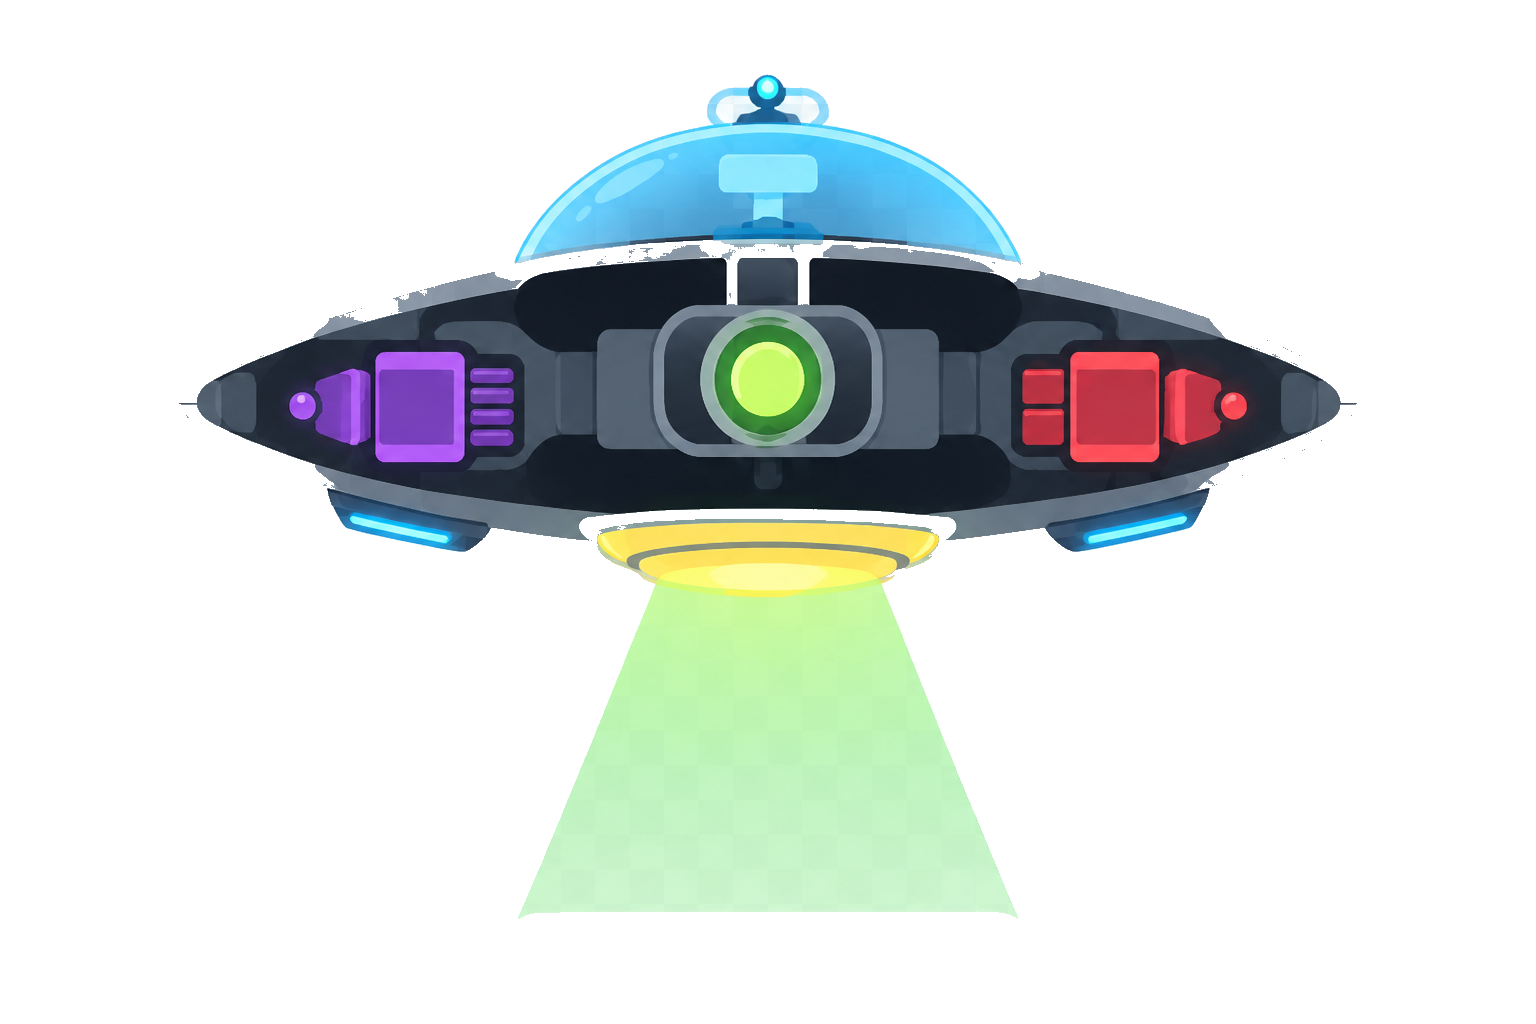
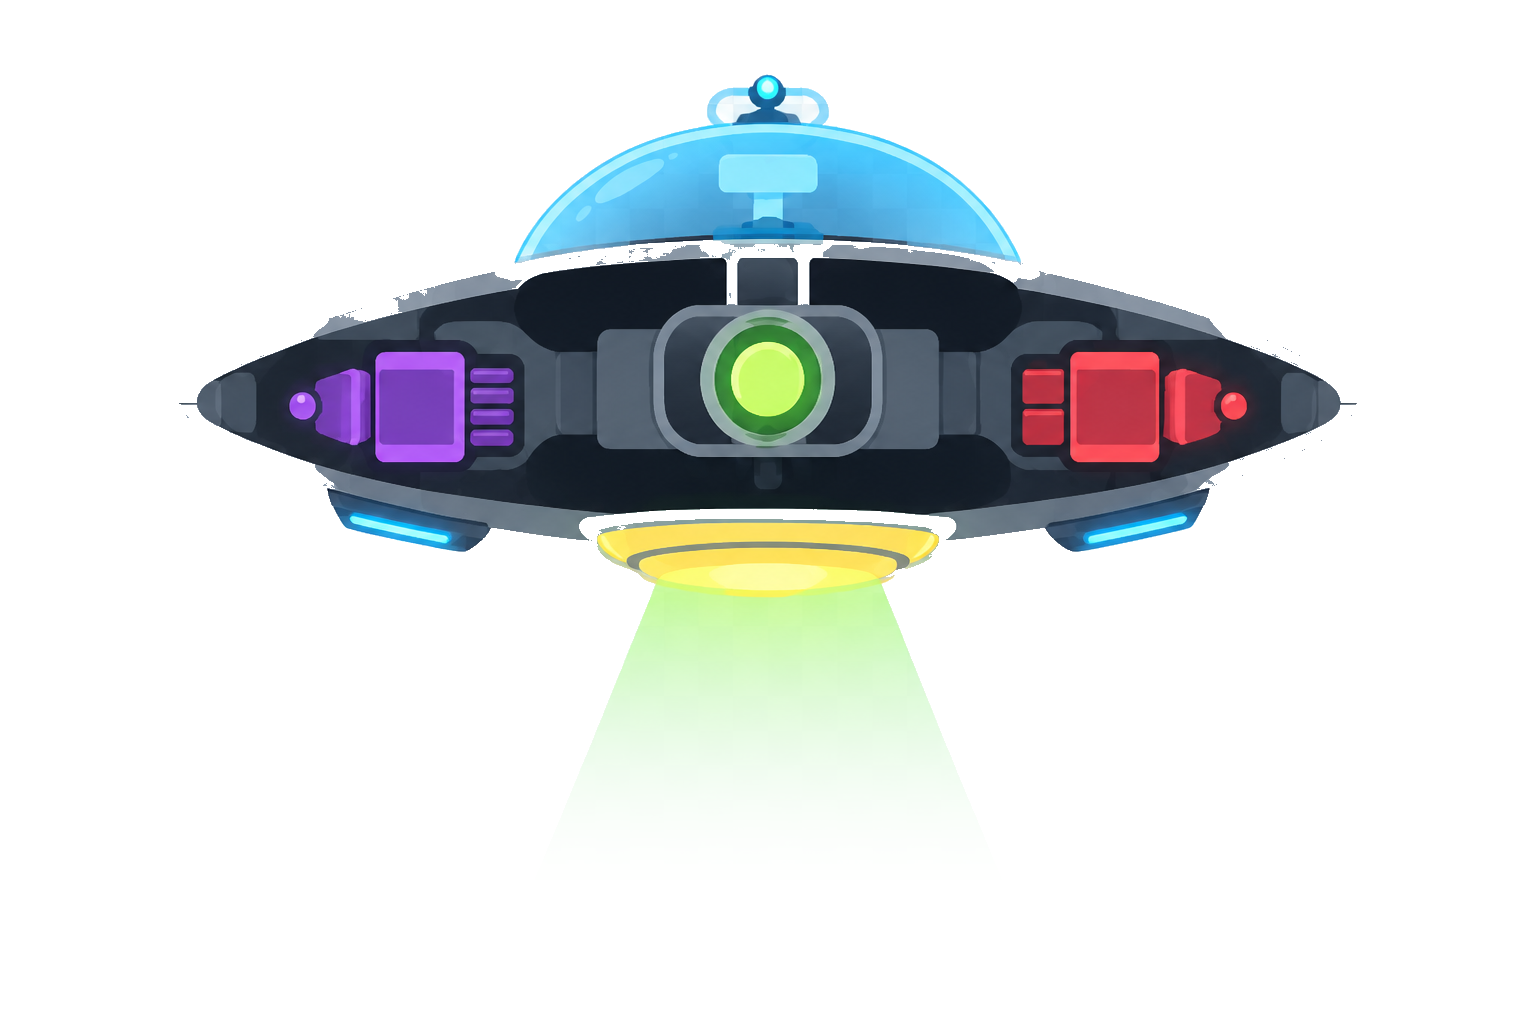
Snap management lead lines to the painted UFO hotspots.

Changed region(s): [[0.3438, 0.625, 0.6562, 0.9062]]

diff --git a/src/management.js b/src/management.js
@@ -46,6 +46,49 @@ export function bindManagement({ els, getPersist, onUpgrade, onNext, onOpen }) {
         }
     }
 
+    const LEAD_EDGES = {
+        scanner: "bottom",
+        core: "top",
+        beam: "right",
+    };
+
+    function boxPoint(el, box, where) {
+        const r = el.getBoundingClientRect();
+        let x = r.left + r.width / 2;
+        let y = r.top + r.height / 2;
+        if (where === "top") y = r.top;
+        if (where === "bottom") y = r.bottom;
+        if (where === "left") x = r.left;
+        if (where === "right") x = r.right;
+        return {
+            x: ((x - box.left) / box.width) * 100,
+            y: ((y - box.top) / box.height) * 100,
+        };
+    }
+
+    function layoutLeads() {
+        const svg = document.getElementById("saucer-leads");
+        if (!svg || els.root.classList.contains("hidden")) return;
+        const box = els.saucer.getBoundingClientRect();
+        if (box.width < 8 || box.height < 8) return;
+        for (const [system, edge] of Object.entries(LEAD_EDGES)) {
+            const btn = els.saucer.querySelector(`[data-system="${system}"]`);
+            const node = els.saucer.querySelector(`.lead-node[data-lead="${system}"]`);
+            const line = svg.querySelector(`line[data-lead="${system}"]`);
+            if (!btn || !node || !line) continue;
+            const from = boxPoint(btn, box, edge);
+            const to = boxPoint(node, box, "center");
+            line.setAttribute("x1", from.x.toFixed(2));
+            line.setAttribute("y1", from.y.toFixed(2));
+            line.setAttribute("x2", to.x.toFixed(2));
+            line.setAttribute("y2", to.y.toFixed(2));
+        }
+    }
+
+    function scheduleLeads() {
+        requestAnimationFrame(() => requestAnimationFrame(layoutLeads));
+    }
+
     function paintStatus(p) {
         els.banked.innerHTML = `${uiIcon("research")}${p.bankedResearch}`;
         els.statCore.innerHTML = `${uiIcon("core")}${p.upgrades.core}`;
@@ -86,12 +129,14 @@ export function bindManagement({ els, getPersist, onUpgrade, onNext, onOpen }) {
         paintSaucer(p.upgrades);
         paintStatus(p);
         paintPanel(p);
+        scheduleLeads();
     }
 
     function show() {
         els.root.classList.remove("hidden");
         openSystem = null;
         refresh();
+        scheduleLeads();
     }
 
     function hide() {
@@ -120,6 +165,11 @@ export function bindManagement({ els, getPersist, onUpgrade, onNext, onOpen }) {
     });
 
     els.nextBtn.addEventListener("click", () => onNext());
+
+    if (typeof ResizeObserver !== "undefined") {
+        new ResizeObserver(() => layoutLeads()).observe(els.saucer);
+    }
+    window.addEventListener("resize", scheduleLeads);
 
     return { show, hide, refresh };
 }

diff --git a/index.html b/index.html
@@ -1874,17 +1874,13 @@
             <img src="assets/ui/mgmt-ufo.png" alt="" />
           </div>
           <svg id="saucer-leads" viewBox="0 0 100 100" preserveAspectRatio="none" aria-hidden="true">
-            <line x1="50" y1="11" x2="50" y2="34"/>
-            <line x1="50" y1="89" x2="50" y2="48"/>
-            <line x1="28" y1="82" x2="50" y2="61"/>
-            <line x1="28" y1="43" x2="38" y2="48"/>
-            <line x1="72" y1="43" x2="62" y2="48"/>
+            <line data-lead="scanner" x1="50" y1="11" x2="50" y2="34"/>
+            <line data-lead="core" x1="50" y1="89" x2="50" y2="48"/>
+            <line data-lead="beam" x1="28" y1="82" x2="50" y2="54"/>
           </svg>
-          <span class="lead-node" style="left:50%;top:34%"></span>
-          <span class="lead-node" style="left:50%;top:48%"></span>
-          <span class="lead-node" style="left:50%;top:61%"></span>
-          <span class="lead-node" style="left:38%;top:48%"></span>
-          <span class="lead-node" style="left:62%;top:48%"></span>
+          <span class="lead-node" data-lead="scanner" style="left:50%;top:34%"></span>
+          <span class="lead-node" data-lead="core" style="left:50%;top:48%"></span>
+          <span class="lead-node" data-lead="beam" style="left:50%;top:54%"></span>
           <div id="growth-cloak" class="growth" data-level="1"></div>
           <div id="growth-core" class="growth" data-level="1"></div>
           <div id="growth-beam" class="growth" data-level="1"></div>
